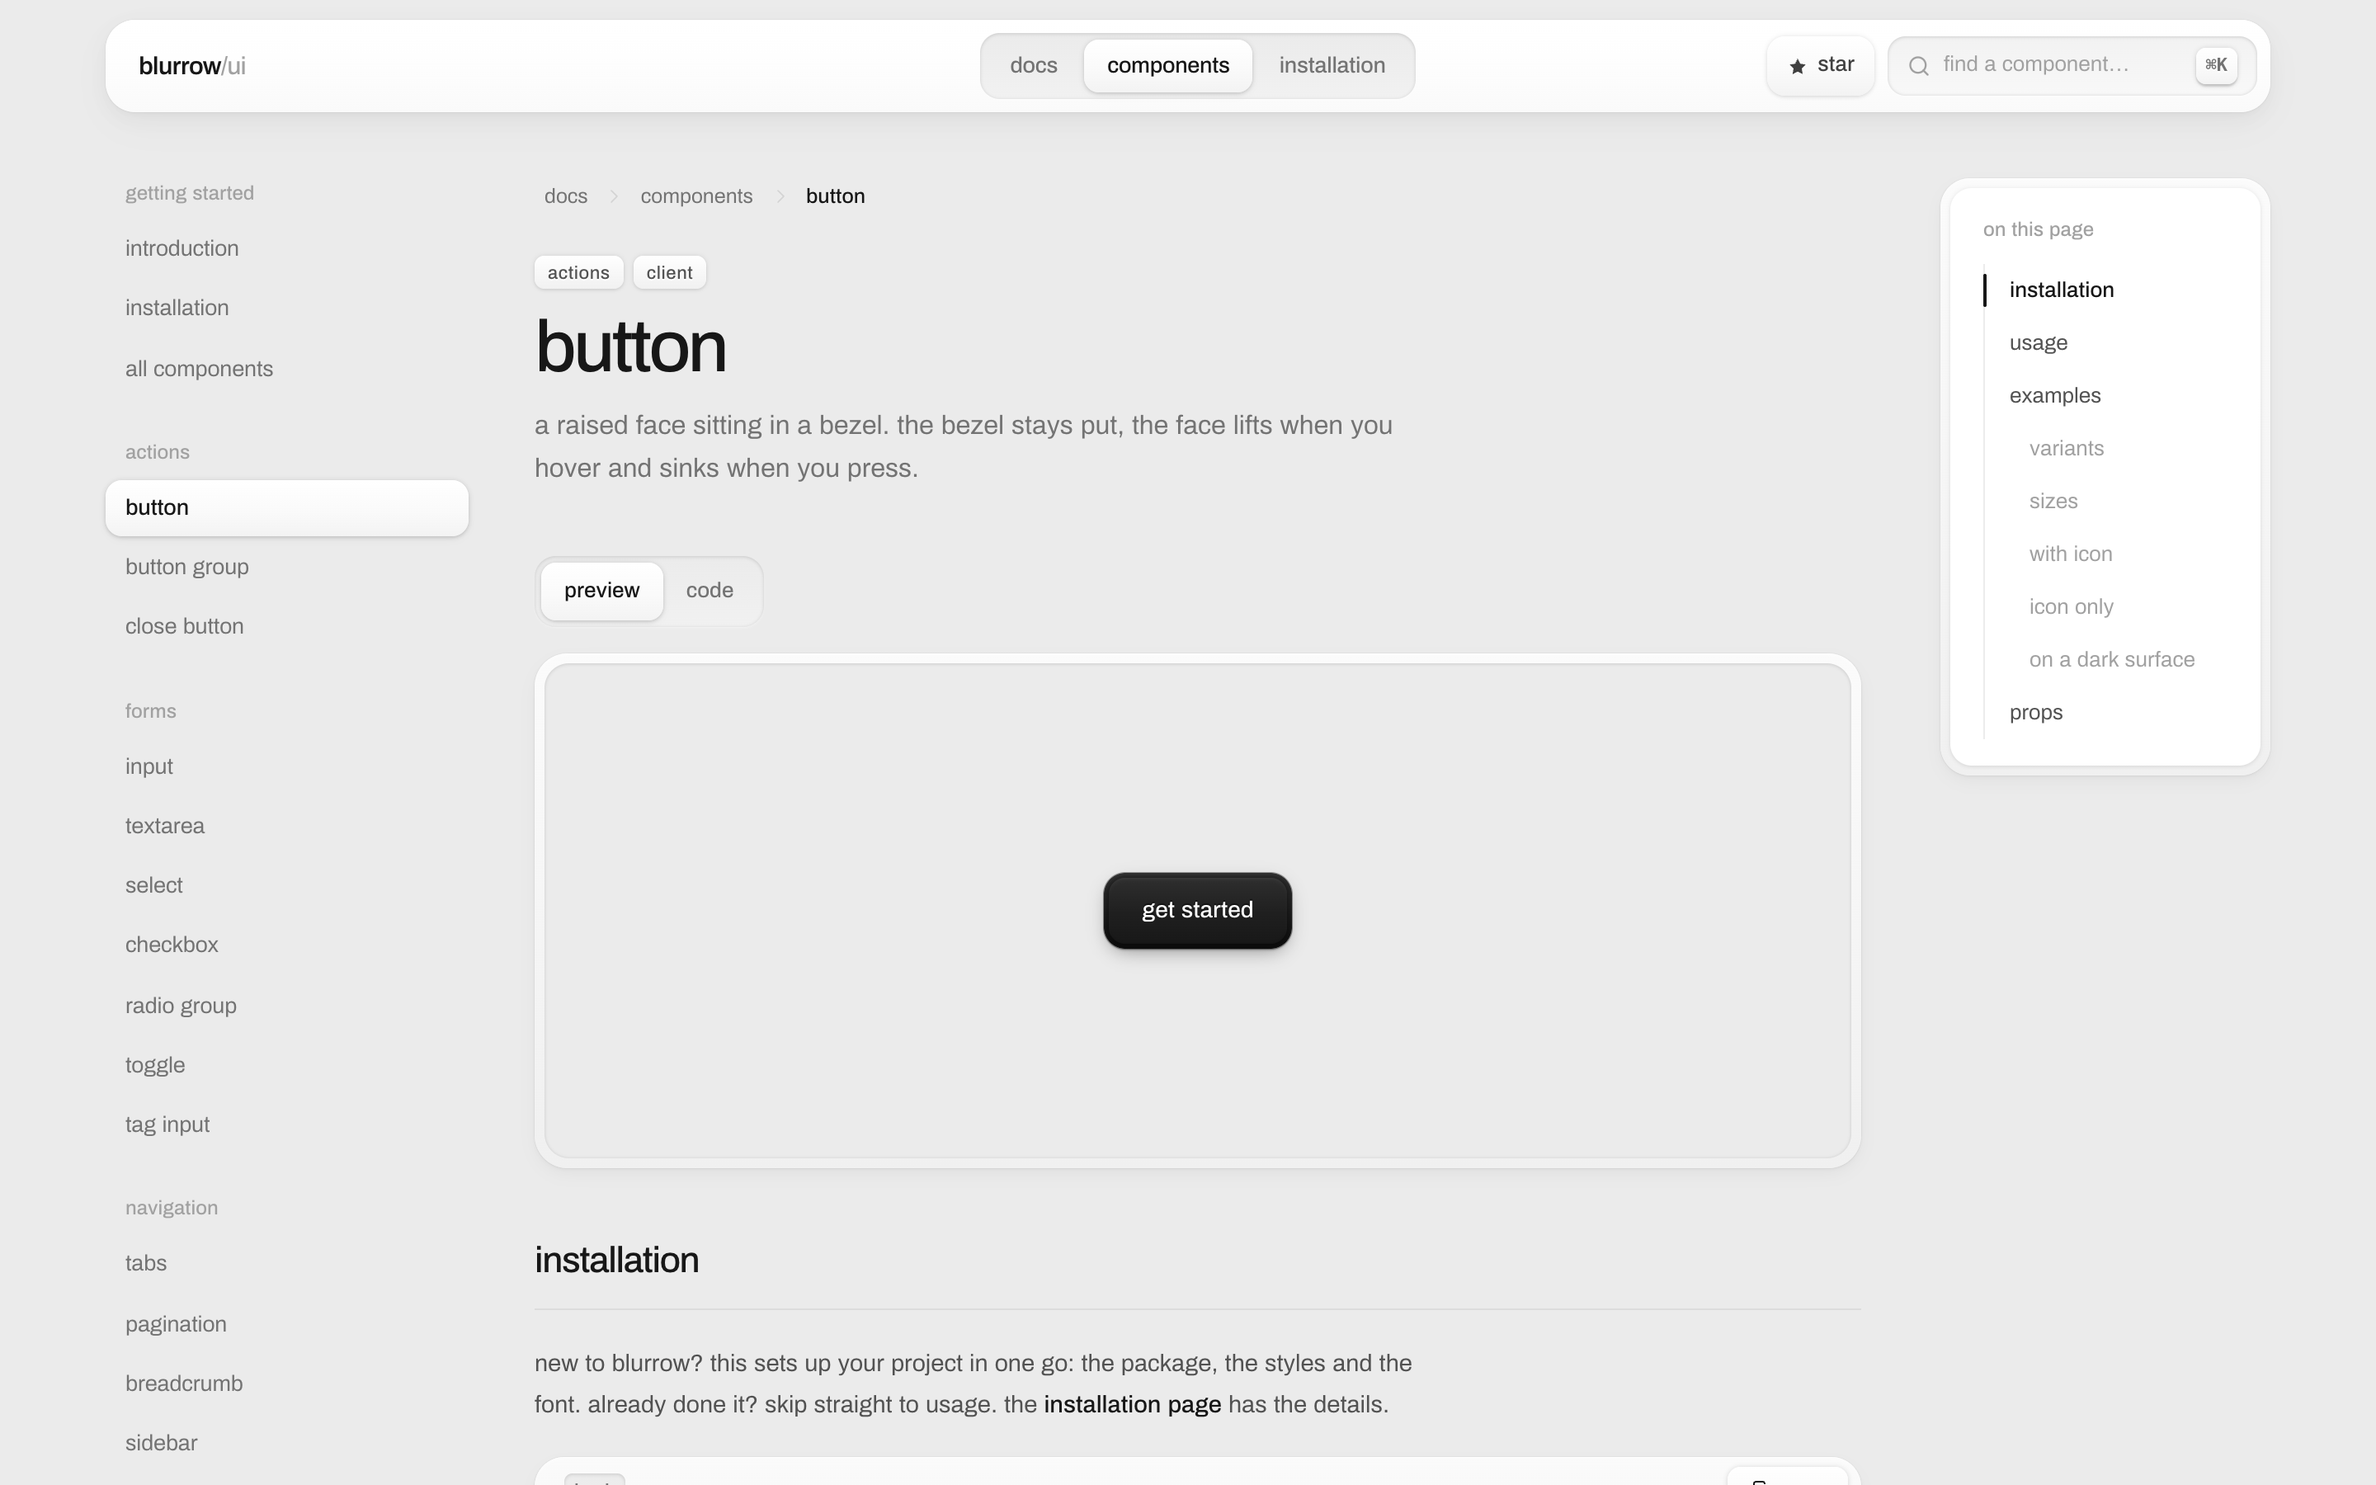
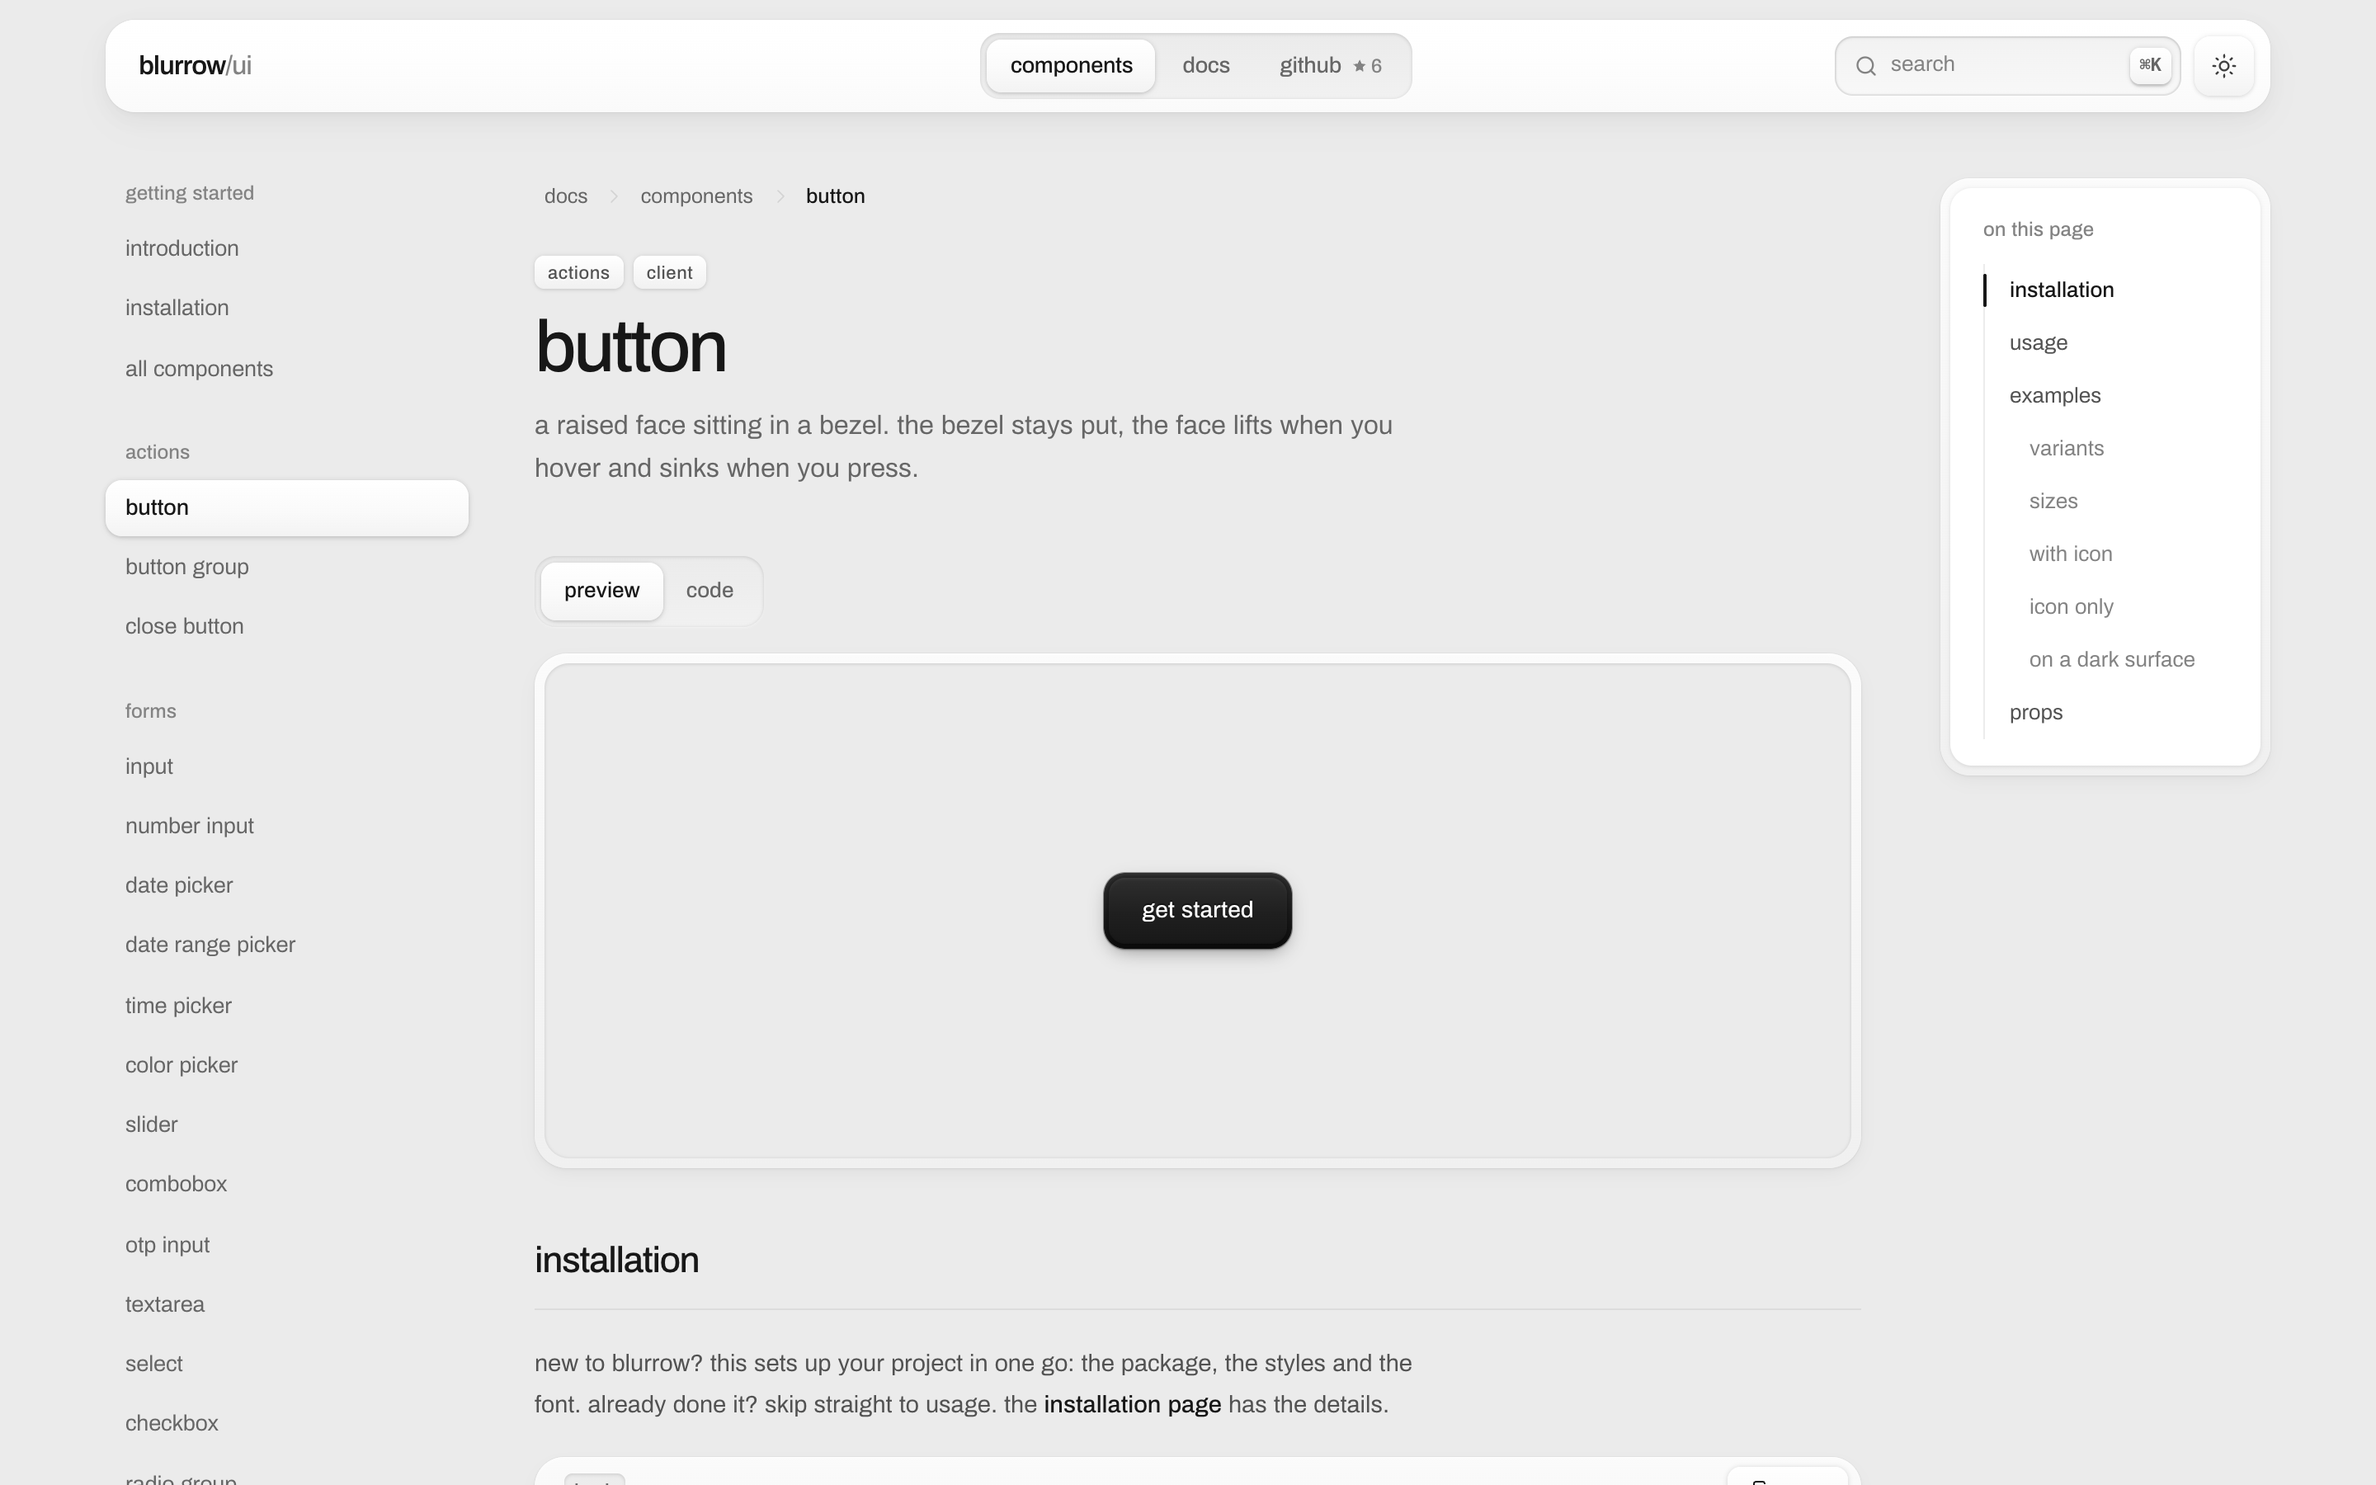
Refresh the readme screenshots
Retake every image from the current site and cli (0.3.0), with a dark
variant GitHub shows to readers in dark mode. Swap the old one-light
picture for the lighting and raised/sunken figures, and list the 14
components the table was missing.

diff --git a/README.md b/README.md
@@ -1,5 +1,8 @@
 <a href="https://www.blurrow.org">
-  <img src=".github/readme/banner.png" alt="blurrow/ui: buttons you want to press, fields you want to fill in" width="100%">
+  <picture>
+    <source media="(prefers-color-scheme: dark)" srcset=".github/readme/banner-dark.png">
+    <img src=".github/readme/banner.png" alt="the blurrow/ui home page: buttons you want to press, fields you want to fill in, above a panel of live controls" width="100%">
+  </picture>
 </a>
 
 <p align="center">
@@ -23,7 +26,10 @@ blurrow is a set of 62 react components that look and feel like physical things.
 i made it for my blog, [blogs](https://github.com/manyports/blogs), and kept polishing it until it felt wrong to keep it to myself. it's free, mit licensed, and built for react 19 and tailwind css v4.
 
 <p align="center">
-  <img src=".github/readme/favourites.png" alt="nine blurrow components: buttons, toggles, an input, tabs, pagination, a radio group, a select, a stat card and an alert" width="100%">
+  <picture>
+    <source media="(prefers-color-scheme: dark)" srcset=".github/readme/favourites-dark.png">
+    <img src=".github/readme/favourites.png" alt="ten blurrow components in a case: radio cards, an otp input, a slider, toggles, a color picker, buttons, tabs, a date picker, a file upload and a stat card" width="100%">
+  </picture>
 </p>
 
 ## getting started
@@ -32,7 +38,7 @@ i made it for my blog, [blogs](https://github.com/manyports/blogs), and kept pol
 npx @blurrow/ui init
 ```
 
-that's the whole setup. it installs the package, adds two lines to your stylesheet, loads the archivo font and wraps your app in `ToastProvider`. it shows you each change before it writes anything, and running it a second time won't hurt.
+that's the whole setup. it installs the package, adds two lines to your stylesheet, loads the archivo font, wraps your app in `ToastProvider` and writes a small `blurrow.json`. it shows you each change before it writes anything, and running it a second time won't hurt.
 
 <p align="center">
   <img src=".github/readme/cli.png" alt="the blurrow cli setting up a next.js project" width="640">
@@ -69,7 +75,7 @@ npx @blurrow/ui diff                    # shows what you've changed since
 
 | command | what it does |
 | --- | --- |
-| `init` | sets up a project: package, styles, font, toasts. safe to run again |
+| `init` | sets up a project: package, styles, font, toasts, config. safe to run again |
 | `add [names…]` | copies components into your project, with their dependencies |
 | `list` | every component, and which ones you've already copied |
 | `diff [name]` | what you've changed in your copies compared to the release |
@@ -79,34 +85,54 @@ everything takes `--yes`, `--dry-run` and `--cwd <path>`. once the package is in
 
 ## one light source
 
-<img src=".github/readme/anatomy.png" alt="a primary button pulled apart into its three layers under a lamp: label, face and bezel" width="100%">
+<p align="center">
+  <picture>
+    <source media="(prefers-color-scheme: dark)" srcset=".github/readme/anatomy-dark.png">
+    <img src=".github/readme/anatomy.png" alt="fig. 2, exploded view: a subscribe button pulled apart into its three layers, label, face and bezel" width="640">
+  </picture>
+</p>
 
-every control is built from two parts: a bezel that never moves and a face that does. hover and the face lifts a pixel. press and it sinks flush with the bezel. that one idea repeats everywhere, from the smallest checkbox up to the cards.
+every control is built from three layers: a bezel that never moves, a face that does, and a label embossed on top. no images, no canvas, just gradients and shadows from one set of tokens. hover and the face lifts a pixel. press and it sinks flush with the bezel. that one idea repeats everywhere, from the smallest checkbox up to the cards.
+
+<p align="center">
+  <picture>
+    <source media="(prefers-color-scheme: dark)" srcset=".github/readme/raised-sunken-dark.png">
+    <img src=".github/readme/raised-sunken.png" alt="fig. 4, raised and sunken: a text field cut into the surface next to a key standing up on it" width="640">
+  </picture>
+</p>
 
 things you press are raised. things you type into are sunken. you can tell a button from a field before you've read either of them.
 
-<img src=".github/readme/one-light.png" alt="a light card and a dark card under a single lamp, casting the same shadow" width="100%">
+<p align="center">
+  <picture>
+    <source media="(prefers-color-scheme: dark)" srcset=".github/readme/lighting-dark.png">
+    <img src=".github/readme/lighting.png" alt="fig. 3, lighting: a lamp above a button, with the highlight on the edge facing it and the shadow falling away" width="640">
+  </picture>
+</p>
 
-and every shadow is drawn as if one lamp is hanging right above your screen. top edges catch the light, bottom edges fall into shade. since the lamp never moves, a light card and a dark card cast the same shadow and get along fine on the same page. on [the website](https://www.blurrow.org) you can grab that lamp and drag it around.
+and every shadow is drawn as if one lamp is hanging right above your screen. top edges catch the light, bottom edges fall into shade. since the lamp stays put, everything on the page agrees on where the light is. on [the website](https://www.blurrow.org) you can watch it swing out of place for a moment and the highlights follow it.
 
-it comes in light and dark. put `data-theme="dark"` on `<html>` and every material swaps for a darker one under the same lamp, or use `data-theme="system"` to follow the os. [the installation guide](https://www.blurrow.org/docs/installation#dark-mode) has the details.
+it comes in light and dark. pages are light by default. put `data-theme="dark"` on `<html>` and every material swaps for a darker one under the same lamp, or use `data-theme="system"` to follow the os. [the installation guide](https://www.blurrow.org/docs/installation#dark-mode) has the details.
 
 ## what's in the box
 
 | | |
 | --- | --- |
 | **actions** | [button](https://www.blurrow.org/docs/components/button) · [button group](https://www.blurrow.org/docs/components/button-group) · [close button](https://www.blurrow.org/docs/components/close-button) |
-| **forms** | [input](https://www.blurrow.org/docs/components/input) · [textarea](https://www.blurrow.org/docs/components/textarea) · [select](https://www.blurrow.org/docs/components/select) · [checkbox](https://www.blurrow.org/docs/components/checkbox) · [radio group](https://www.blurrow.org/docs/components/radio-group) · [toggle](https://www.blurrow.org/docs/components/toggle) · [tag input](https://www.blurrow.org/docs/components/tag-input) |
+| **forms** | [input](https://www.blurrow.org/docs/components/input) · [number input](https://www.blurrow.org/docs/components/number-input) · [textarea](https://www.blurrow.org/docs/components/textarea) · [select](https://www.blurrow.org/docs/components/select) · [combobox](https://www.blurrow.org/docs/components/combobox) · [checkbox](https://www.blurrow.org/docs/components/checkbox) · [radio group](https://www.blurrow.org/docs/components/radio-group) · [radio cards](https://www.blurrow.org/docs/components/radio-cards) · [toggle](https://www.blurrow.org/docs/components/toggle) · [slider](https://www.blurrow.org/docs/components/slider) · [tag input](https://www.blurrow.org/docs/components/tag-input) · [otp input](https://www.blurrow.org/docs/components/otp-input) · [date picker](https://www.blurrow.org/docs/components/date-picker) · [date range picker](https://www.blurrow.org/docs/components/date-range-picker) · [time picker](https://www.blurrow.org/docs/components/time-picker) · [color picker](https://www.blurrow.org/docs/components/color-picker) · [file upload](https://www.blurrow.org/docs/components/file-upload) |
 | **navigation** | [tabs](https://www.blurrow.org/docs/components/tabs) · [pagination](https://www.blurrow.org/docs/components/pagination) · [breadcrumb](https://www.blurrow.org/docs/components/breadcrumb) · [sidebar](https://www.blurrow.org/docs/components/sidebar) · [steps](https://www.blurrow.org/docs/components/steps) · [table of contents](https://www.blurrow.org/docs/components/table-of-contents) · [command palette](https://www.blurrow.org/docs/components/command-palette) |
-| **overlays** | [modal](https://www.blurrow.org/docs/components/modal) · [drawer](https://www.blurrow.org/docs/components/drawer) · [popover](https://www.blurrow.org/docs/components/popover) · [tooltip](https://www.blurrow.org/docs/components/tooltip) · [dropdown menu](https://www.blurrow.org/docs/components/dropdown-menu) · [toast](https://www.blurrow.org/docs/components/toast) |
-| **feedback** | [alert](https://www.blurrow.org/docs/components/alert) · [banner](https://www.blurrow.org/docs/components/banner) · [progress](https://www.blurrow.org/docs/components/progress) · [skeleton](https://www.blurrow.org/docs/components/skeleton) · [empty state](https://www.blurrow.org/docs/components/empty-state) |
-| **data display** | [badge](https://www.blurrow.org/docs/components/badge) · [avatar](https://www.blurrow.org/docs/components/avatar) · [kbd](https://www.blurrow.org/docs/components/kbd) · [table](https://www.blurrow.org/docs/components/table) · [data list](https://www.blurrow.org/docs/components/data-list) · [stat](https://www.blurrow.org/docs/components/stat) · [stat card](https://www.blurrow.org/docs/components/stat-card) · [timeline](https://www.blurrow.org/docs/components/timeline) · [code block](https://www.blurrow.org/docs/components/code-block) · [accordion](https://www.blurrow.org/docs/components/accordion) |
+| **overlays** | [modal](https://www.blurrow.org/docs/components/modal) · [drawer](https://www.blurrow.org/docs/components/drawer) · [popover](https://www.blurrow.org/docs/components/popover) · [tooltip](https://www.blurrow.org/docs/components/tooltip) · [hover card](https://www.blurrow.org/docs/components/hover-card) · [dropdown menu](https://www.blurrow.org/docs/components/dropdown-menu) · [context menu](https://www.blurrow.org/docs/components/context-menu) · [toast](https://www.blurrow.org/docs/components/toast) |
+| **feedback** | [alert](https://www.blurrow.org/docs/components/alert) · [banner](https://www.blurrow.org/docs/components/banner) · [progress](https://www.blurrow.org/docs/components/progress) · [spinner](https://www.blurrow.org/docs/components/spinner) · [skeleton](https://www.blurrow.org/docs/components/skeleton) · [empty state](https://www.blurrow.org/docs/components/empty-state) |
+| **data display** | [badge](https://www.blurrow.org/docs/components/badge) · [avatar](https://www.blurrow.org/docs/components/avatar) · [kbd](https://www.blurrow.org/docs/components/kbd) · [separator](https://www.blurrow.org/docs/components/separator) · [table](https://www.blurrow.org/docs/components/table) · [data list](https://www.blurrow.org/docs/components/data-list) · [stat](https://www.blurrow.org/docs/components/stat) · [stat card](https://www.blurrow.org/docs/components/stat-card) · [timeline](https://www.blurrow.org/docs/components/timeline) · [code block](https://www.blurrow.org/docs/components/code-block) · [accordion](https://www.blurrow.org/docs/components/accordion) |
 | **cards** | [card shell](https://www.blurrow.org/docs/components/card-shell) · [card](https://www.blurrow.org/docs/components/card) · [quote card](https://www.blurrow.org/docs/components/quote-card) · [spotlight card](https://www.blurrow.org/docs/components/spotlight-card) · [author card](https://www.blurrow.org/docs/components/author-card) · [carousel](https://www.blurrow.org/docs/components/carousel) |
 | **editorial** | [reading progress](https://www.blurrow.org/docs/components/reading-progress) · [reading time](https://www.blurrow.org/docs/components/reading-time) · [reaction bar](https://www.blurrow.org/docs/components/reaction-bar) · [share buttons](https://www.blurrow.org/docs/components/share-buttons) |
 
 each one has [its own page](https://www.blurrow.org/docs/components) with a live preview, a handful of examples, its props and the full source.
 
-<img src=".github/readme/docs.png" alt="the docs page for the button component" width="100%">
+<picture>
+  <source media="(prefers-color-scheme: dark)" srcset=".github/readme/docs-dark.png">
+  <img src=".github/readme/docs.png" alt="the docs page for the button component" width="100%">
+</picture>
 
 ## working on blurrow
 
@@ -141,7 +167,10 @@ mit, so use it for anything. if you build something nice with it, i'd really lik
 <br>
 
 <a href="https://www.blurrow.org">
-  <img src=".github/readme/lights-on.png" alt="a pendant lamp lighting the words: ready when you are" width="100%">
+  <picture>
+    <source media="(prefers-color-scheme: dark)" srcset=".github/readme/lights-on-dark.png">
+    <img src=".github/readme/lights-on.png" alt="ready when you are: one command, npx @blurrow/ui init, and a hand-written thank-you note" width="100%">
+  </picture>
 </a>
 
 <p align="center">
